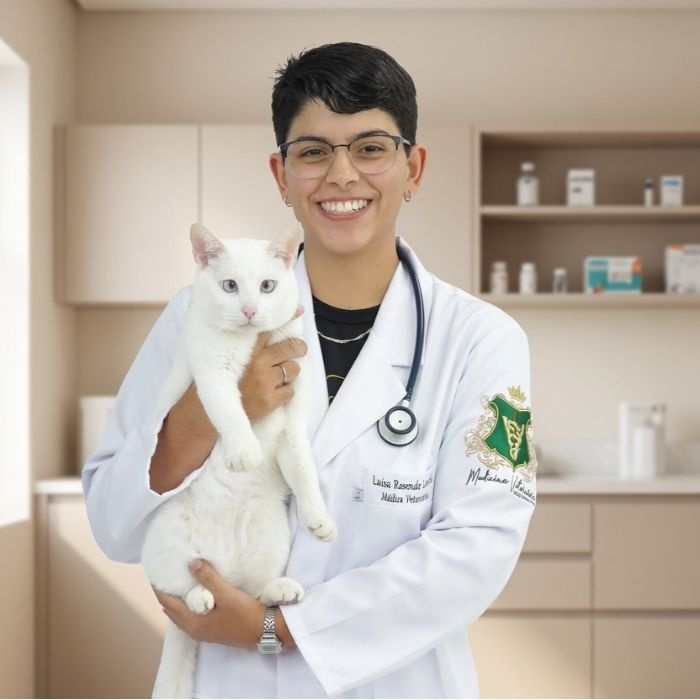
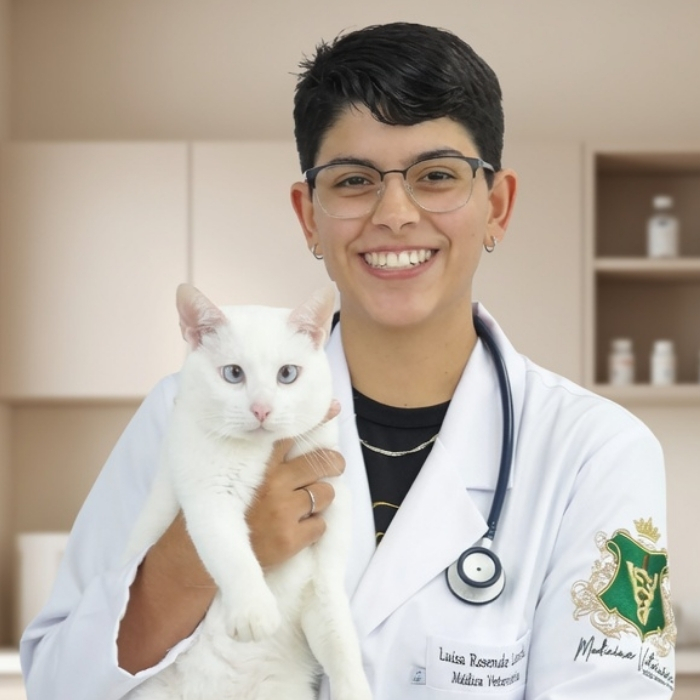
[feat] Inclusão de imagens

diff --git a/index.css b/index.css
@@ -15,6 +15,7 @@
   --color-primary-dark: #f06c3a; /* laranja mais escuro (hover) */
   --color-secondary: #f4d068; /* amarelo pastel */
   --color-accent: #6fbf9c; /* verde acolhedor */
+  --color-accent-dark: #afeed3; /* verde acolhedor escuro */
 
   /* Cores de marcas (WhatsApp / Instagram) */
   --color-whatsapp: #25d366;
@@ -573,7 +574,7 @@ button:focus-visible {
 .card--service .card__icon,
 .card--service .card__title,
 .card--service .card__text,
-.card--service .badge-note {
+.card--service {
   padding-inline: var(--space-lg);
 }
 
@@ -593,7 +594,7 @@ button:focus-visible {
 }
 
 .card--service:hover .card__icon {
-  background-color: var(--color-secondary);
+  background-color: var(--color-accent-dark);
   transform: scale(1.08) rotate(-6deg);
 }
 
@@ -614,7 +615,7 @@ button:focus-visible {
   font-weight: 600;
   color: var(--color-primary-dark);
   background: rgba(255, 138, 91, 0.12);
-  padding: 0.25rem 0.6rem;
+  padding: 0.25rem 0.7rem;
   border-radius: var(--radius-full);
 }
 
@@ -677,15 +678,15 @@ button:focus-visible {
 
 .testimonial__author {
   display: flex;
+  flex-direction: column;
   align-items: center;
-  gap: var(--space-sm);
   margin-top: auto;
+  gap: var(--space-xs);
 }
 
 .avatar-group {
-  position: relative;
-  width: 56px;
-  height: 48px;
+  display: flex;
+  width: 3.5rem;
   flex-shrink: 0;
 }
 
@@ -693,27 +694,24 @@ button:focus-visible {
 .avatar {
   width: 44px;
   height: 1.8rem;
-  /* border-radius: 50%; */
+  border-radius: 50%;
   object-fit: cover;
   border: 3px solid var(--color-white);
-  position: absolute;
+  /* position: absolute; */
   box-shadow: 0 2px 8px rgba(58, 52, 46, 0.12);
 }
 
 .avatar--person {
-  top: 0;
-  left: 0;
   z-index: 2;
 }
 .avatar--pet {
-  bottom: 0;
-  top: 22px;
   z-index: 1;
 }
 
 .testimonial__names {
   display: flex;
   flex-direction: column;
+  align-items: center;
   font-size: 0.88rem;
 }
 
@@ -1088,5 +1086,9 @@ button:focus-visible {
 
   .contact__inner {
     padding-inline: var(--space-sm);
+  }
+
+  .btn--whatsapp {
+    box-shadow: 0 6px 10px rgba(37, 211, 102, 0.3);
   }
 }

diff --git a/index.html b/index.html
@@ -253,7 +253,7 @@
 
             <article class="card card--service">
               <img
-                src="assets/images/cuidadossaudepet.jpg"
+                src="assets/images/pet-cuidados-veterinarios.jpg"
                 alt="Pet sendo cuidado durante a visita"
                 class="card__img img-placeholder"
               />
@@ -267,7 +267,7 @@
 
             <article class="card card--service">
               <img
-                src="assets/images/gatobrincando.jpg"
+                src="assets/images/pet-brincadeira.jpg"
                 alt="Pet sendo cuidado durante a visita"
                 class="card__img img-placeholder"
               />

diff --git a/src/components/js/testimonials.js b/src/components/js/testimonials.js
@@ -52,7 +52,7 @@ function renderTestimonials(testimonialsList, container) {
     }
 
     if (nameTutorPetEl) {
-      nameTutorPetEl.textContent = item.name_tutor || "";
+      nameTutorPetEl.textContent = `${item.name_tutor || ""} e ${item.name_pet || ""} ${item.emoji_pet}`;
     }
 
     if (cityUfEl) {
